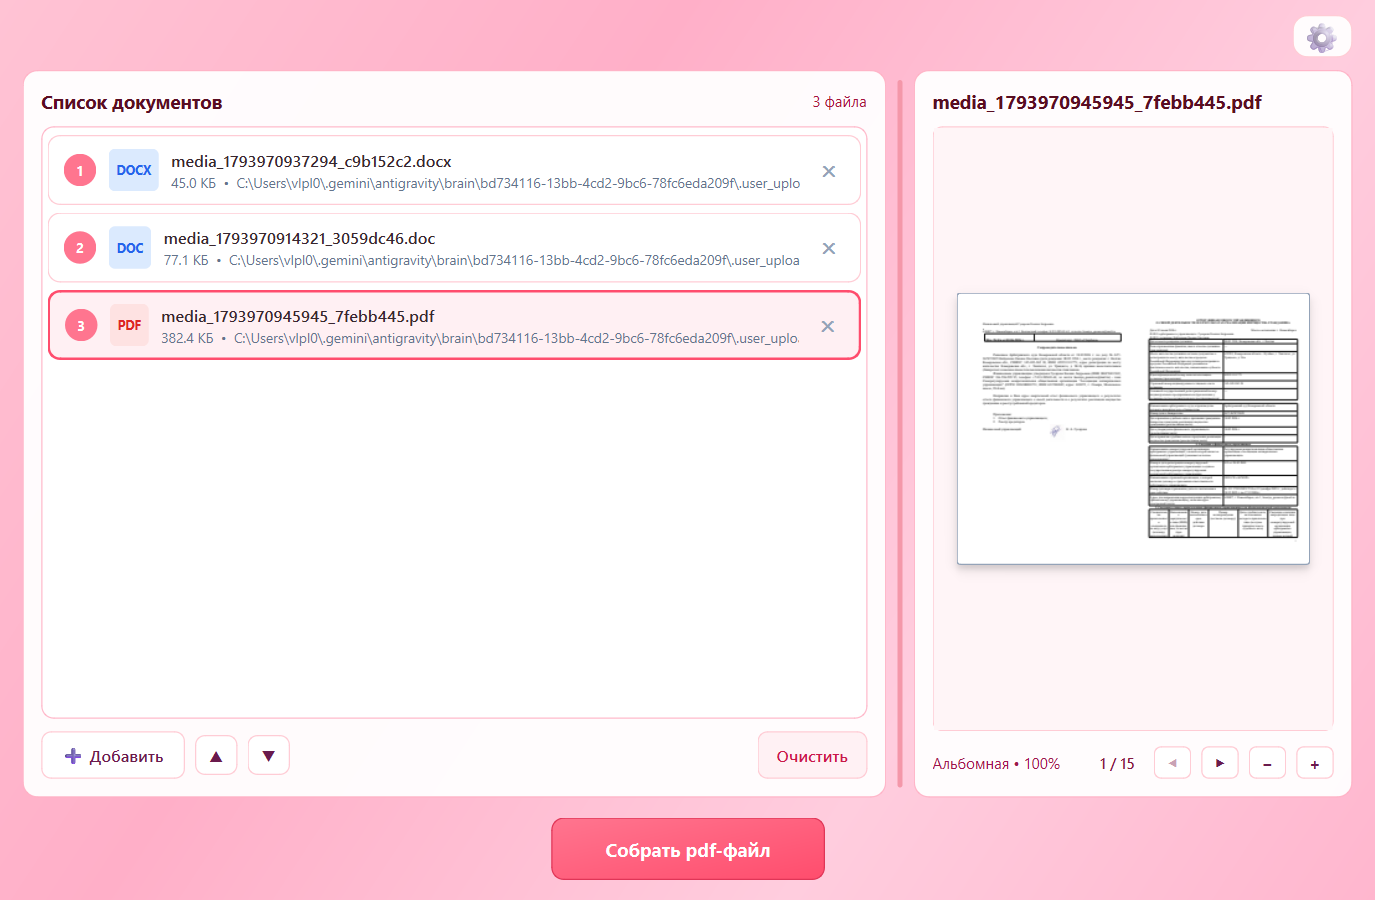
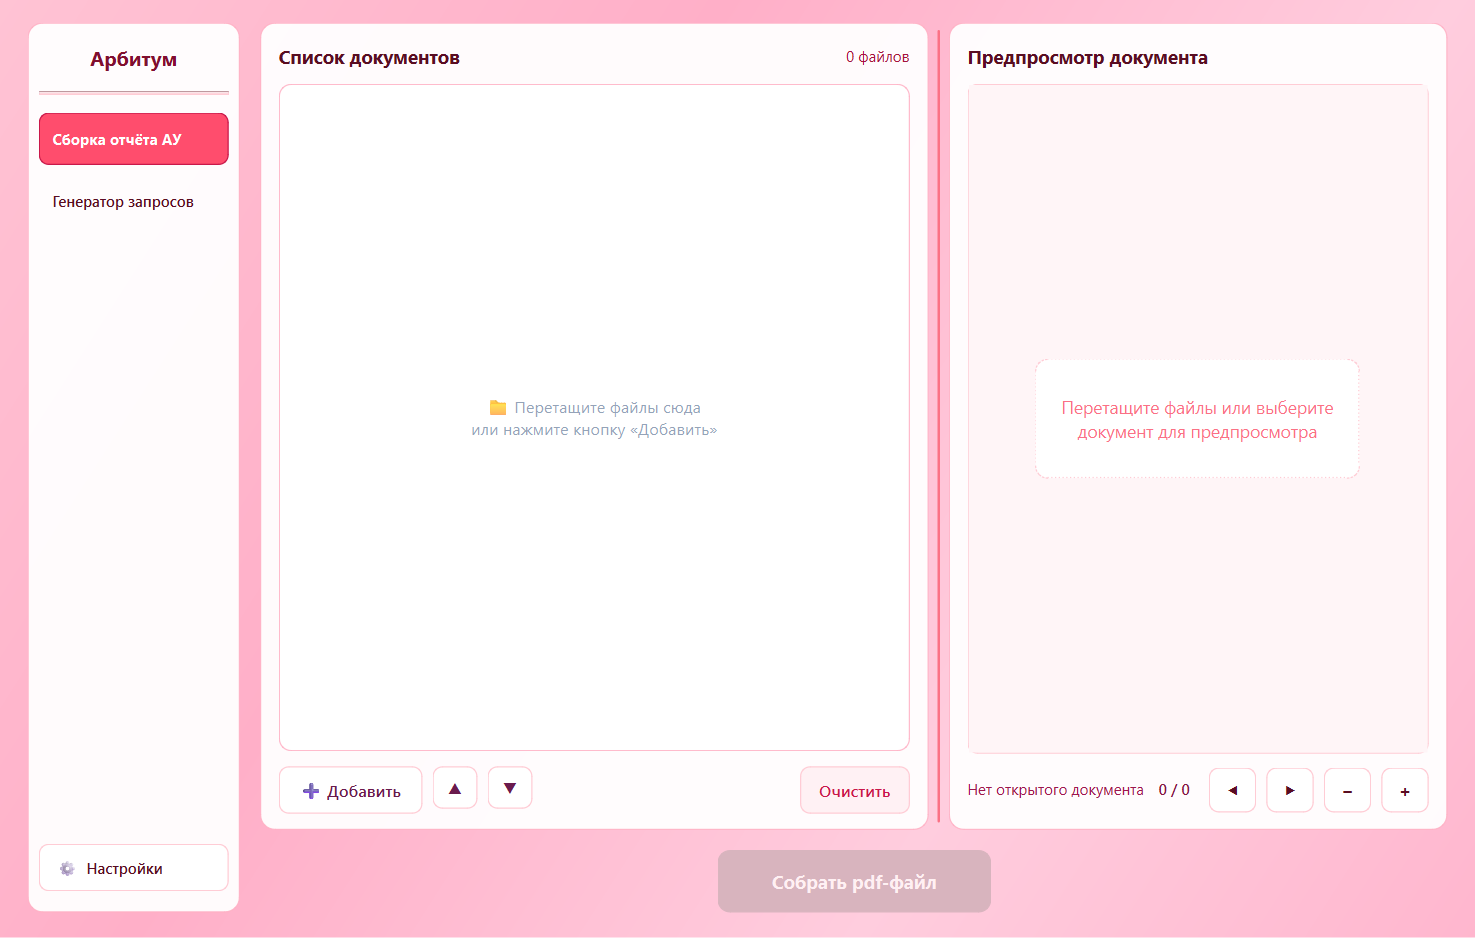
Update README and screenshots with new Inquiry Generator module

Changed region(s): [[0.0, 0.0, 1.0, 1.0], [0.7025, 0.3422, 0.9469, 0.6533], [0.3055, 0.84, 0.336, 0.8711]]

diff --git a/README.md b/README.md
@@ -1,52 +1,91 @@
-# Arbitrum (Мастер сборки отчетов АУ)
+# Arbitrum (Арбитум) — Мастер сборки отчетов и генератор запросов АУ
 
-Десктопное приложение для автоматизации подготовки и объединения документов арбитражного управляющего в единый PDF-файл формата A4 (2 страницы на лист, альбомная ориентация).
+Десктопное приложение для автоматизации рутинной работы арбитражного (финансового) управляющего:
+1. **Сборка отчёта АУ** — объединение пакета документов в единый PDF- или Word-файл с настраиваемой компоновкой (альбомный разворот 2-на-лист или стандартное постраничное объединение).
+2. **Генератор запросов** — автоматическое формирование официальных запросов в государственные ведомства и банки по данным судебного акта.
 
-## Назначение
+---
 
-При подаче квартальной отчетности арбитражного управляющего через электронные сервисы требуется строго определенная компоновка:
-1. Порядок документов: Сопроводительное письмо -> Отчет арбитражного управляющего -> Реестр требований кредиторов.
-2. Формат вывода: альбомный лист A4 (297 x 210 мм), на котором рядом размещаются две страницы исходных документов книжной ориентации либо отцентрированный альбомный лист (реестр).
+## Возможности
 
-Приложение автоматизирует конвертацию разнородных форматов (DOC, DOCX, PDF), приведение страниц к единому масштабу и сборку итогового документа.
+### 1. Модуль «Сборка отчёта АУ»
+- **Поддержка форматов:** импорт документов `.pdf`, `.docx`, `.doc`.
+- **Drag & Drop:** добавление файлов перетаскиванием или через системный проводник.
+- **Управление списком:** изменение порядка документов (перетаскивание строк списка или кнопки перемещения вверх/вниз), удаление отдельных файлов или полная очистка очереди.
+- **Поворот страниц:** кнопка поворота на 90° прямо на карточке документа в очереди со мгновенным отображением в окне предварительного просмотра (исходный файл не перезаписывается).
+- **Встроенный предпросмотр:** масштабирование (zoom in / zoom out) и постраничная навигация без необходимости открывать сторонние программы.
+- **Режимы компоновки:**
+  - *По одной странице на лист* — объединение страниц в исходном виде.
+  - *По две страницы на листе* — формат А4 2-up (альбомная ориентация), оптимизированный для подачи квартальной отчетности в суд и Росреестр.
+- **Выбор выходного формата:** экспорт итогового отчета в **PDF (`.pdf`)** или **Word (`.docx`)**.
 
-## Основные возможности
+### 2. Модуль «Генератор запросов»
+- **Автоматический парсинг решения суда:** загрузка PDF-файла решения Арбитражного суда с автоматическим извлечением реквизитов дела, суда, должника (ФИО, паспорт, СНИЛС, ИНН, адрес, дата и место рождения) и сведений о браке.
+- **Интеллектуальное склонение:** автоматическое приведение ФИО в родительный падеж с помощью морфологического анализатора `pymorphy3` для юридически выверенных формулировок.
+- **18 государственных ведомств и организаций:** компактный двухколоночный список с кнопками быстрого выбора («Выбрать все» / «Снять выделение»):
+  - Банки (уведомление-запрос)
+  - Администрация
+  - БТИ
+  - ГИБДД
+  - ГИМС
+  - Гостехнадзор
+  - ЕГРН (Росреестр сокращенный)
+  - ЗАГС
+  - ИФНС
+  - Росавиация
+  - Росгвардия
+  - Росимущество
+  - Роспатент
+  - Росреестр
+  - ФССП (Служба судебных приставов)
+  - СФР (Социальный фонд)
+  - Должнику / Супругу
+  - УВМ (МВД по вопросам миграции)
+- **Удобная форма редактирования:** реквизиты дела, суда, должника, финансового управляющего и супруга с всплывающими подсказками (tooltips) по каждому полю.
+- **Индивидуальная подстановка данных:** заполненные поля в создаваемых `.docx` документах выделяются полужирным начертанием для наглядности при проверке.
+- **Пакетная генерация:** сохранение сформированных документов в отдельную папку по ФИО должника с диалогом быстрого перехода к папке с файлами.
 
-- Загрузка файлов через системный проводник или перетаскиванием (Drag and Drop).
-- Поддержка входных форматов `.doc`, `.docx`, `.pdf`.
-- Изменение порядка файлов в списке перетаскиванием строк или кнопками перемещения.
-- Удаление отдельных документов из очереди или полная очистка списка.
-- Встроенный постраничный предварительный просмотр выбранного документа без открытия внешних программ.
-- Навигация по страницам и масштабирование (zoom in / zoom out) в области предпросмотра.
-- Модальное окно прогресса обработки с блокировкой интерфейса во избежание повторных нажатий.
-- Диалог завершения с возможностью открыть собранный PDF или перейти в папку с файлом.
-- Настройки рабочей директории сохранения (по умолчанию папка «Загрузки») с кнопками быстрого выбора.
-- Выбор темы оформления интерфейса: стандартная светлая и альтернативная пастельная («Феминная»).
+### 3. Общие функции и интерфейс
+- **Темы оформления:** светлая тема («Обычная светлая») и элегантная пастельная тема («Феминная»).
+- **Рабочая директория:** выбор папки сохранения с быстрыми ссылками («Рабочий стол», «Загрузки»).
+- **Интерактивный разделитель (Splitter):** плавная регулировка соотношения ширины очереди документов и панели предпросмотра.
+
+---
 
 ## Скриншоты интерфейса
 
-### Главное окно (список документов и предпросмотр)
-![Главное окно приложения](docs/screenshots/main_light.png)
+### Модуль 1: Сборка отчёта АУ
+![Сборка отчёта АУ](docs/screenshots/main_light.png)
 
-### Альтернативная тема оформления
+### Модуль 2: Генератор запросов
+![Генератор запросов](docs/screenshots/inquiry_light.png)
+
+### Альтернативная тема оформления («Феминная»)
 ![Альтернативная тема оформления](docs/screenshots/main_feminine.png)
 
 ### Окно параметров
 ![Окно настроек](docs/screenshots/settings.png)
+
+---
 
 ## Технологический стек
 
 - **Язык программирования:** Python 3.10+
 - **Графический интерфейс:** PySide6 (Qt for Python 6.5+)
 - **Рендеринг документов:** PySide6.QtPdf (QPdfDocument)
-- **Обработка PDF:** pypdf
-- **Конвертация Word в PDF:** Microsoft Word COM-автоматизация (`pywin32` / `pythoncom`)
-- **Сборка в исполняемый файл:** PyInstaller
+- **Обработка PDF:** pypdf, pdfplumber
+- **Генерация и обработка Word:** python-docx, Microsoft Word COM-автоматизация (`pywin32` / `pythoncom`)
+- **Морфологический анализ и склонение:** pymorphy3, pymorphy3-dicts-ru
+- **Компиляция приложения:** PyInstaller
+
+---
 
 ## Системные требования
 
-- ОС: Windows 10 / Windows 11 (64-bit)
-- Для обработки файлов `.doc` и `.docx` требуется установленный Microsoft Word (2010 или новее)
+- **ОС:** Windows 10 / Windows 11 (64-bit)
+- Для прямой конвертации исходных файлов `.doc` в модуле сборки отчетов требуется установленный Microsoft Word (2010 или новее). Для генерации запросов в `.docx` наличие Word не обязательно.
+
+---
 
 ## Установка и запуск из исходного кода
 
@@ -65,12 +104,14 @@
    ```bash
    python main.py
    ```
-   Или запустить файл `run.bat`.
+   Или использовать готовый скрипт `run.bat`.
+
+---
 
 ## Сборка автономного EXE-файла
 
-Для компиляции приложения в один `.exe` файл со встроенной иконкой выполните:
+Для компиляции приложения в единый исполняемый `.exe` файл со встроенными зависимостями и иконкой:
 ```bash
 python build_exe.py
 ```
-Собранный файл будет помещен в директорию `dist/Арбитрум.exe`.
+Собранный файл сохраняется в `dist/Арбитрум.exe`.
